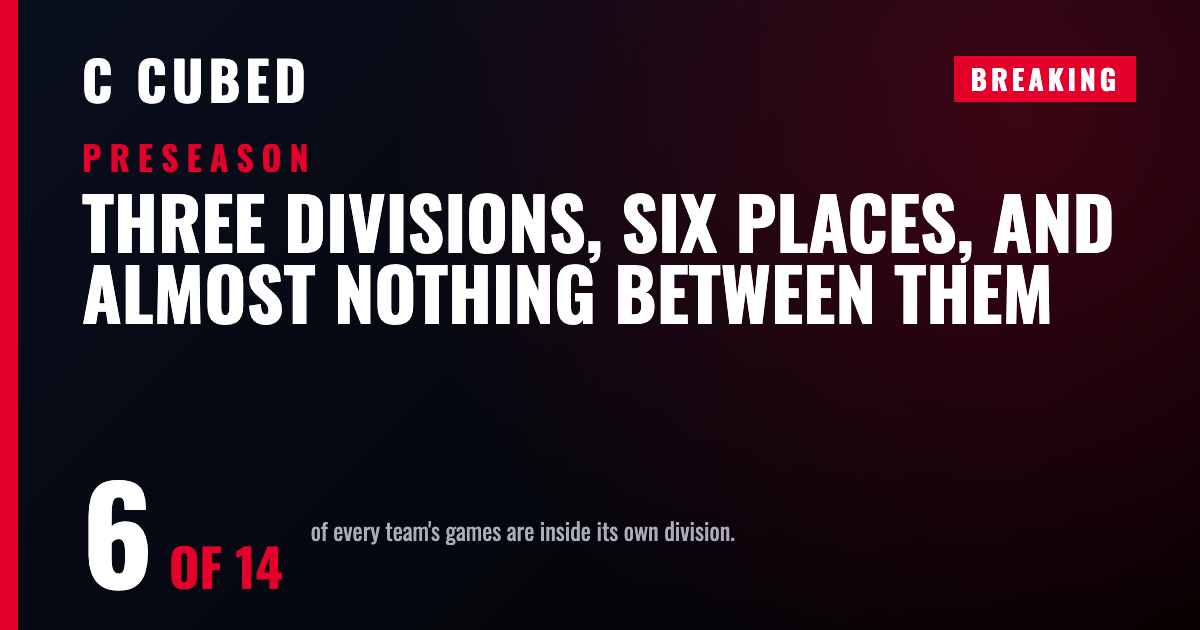
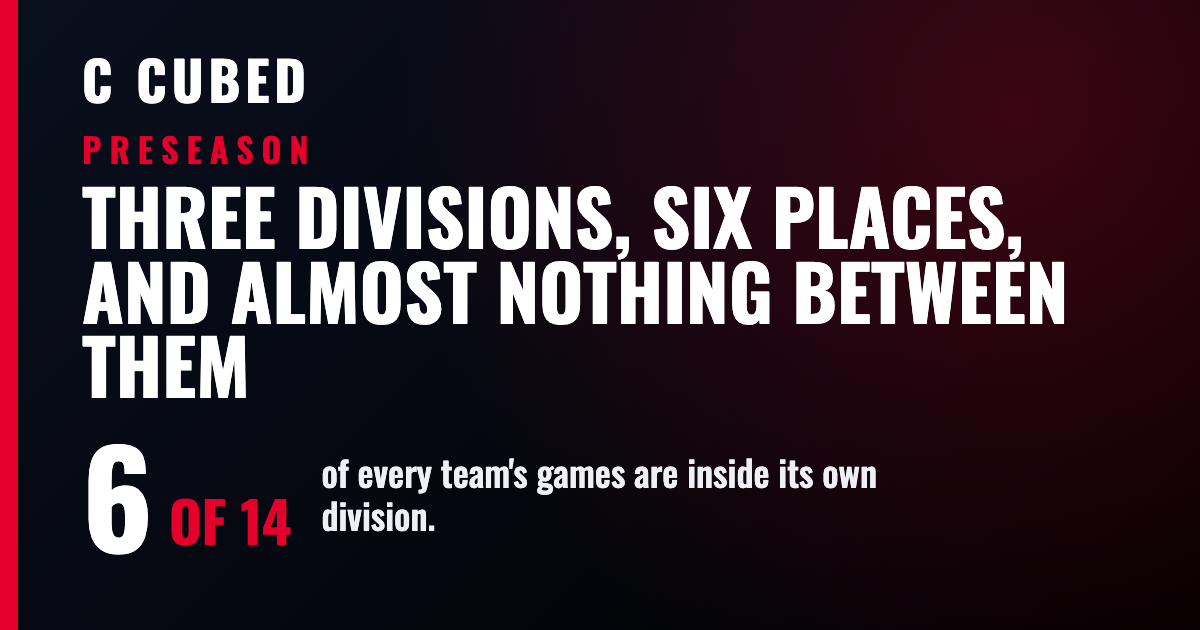
Design review: readable og cards, whole chart labels, a phone crop and full-size view for the board
- og cards: caption beside the stat at 36px and near-white, cut to its first
  clause when long; week, headline and stat grouped so there is no empty band;
  no BREAKING tag on PRESEASON pieces. Regenerated img/og/*.png.
- Article bars: one grid for every row; the label column fits the longest word
  and labels wrap only between words (no mid-word breaks, no ellipsis).
- Article images: optional `narrow` crop served under 560px via <picture>
  (img/playoff-picture-2026-w5-top.webp, the seeds list to the playoff line);
  the image is a real button that opens the full board in a modal <dialog>
  (Escape or Close closes it, focus returns to the button).
- Week 5 article: Montgomery is "now out with a groin injury", with no timing.

Changed region(s): [[0.0617, 0.2111, 0.925, 0.6333], [0.0617, 0.6937, 0.74, 0.9349], [0.7708, 0.0905, 0.9558, 0.181]]

diff --git a/index.html b/index.html
@@ -878,14 +878,35 @@
   .aimg img{display:block;max-width:100%;height:auto;border-radius:12px;border:1px solid var(--grid)}
   .aimg figcaption{font-size:13px;line-height:1.5;color:var(--muted);margin-top:9px}
   .aimg figcaption a{display:inline-block;margin-top:4px;font-weight:750;color:var(--blue)}
+  .aimgz{display:block;position:relative;width:100%;padding:0;border:0;background:none;color:inherit;
+    font:inherit;text-align:left;cursor:zoom-in;border-radius:12px}
+  .aimgz:focus-visible{outline:2px solid var(--blue);outline-offset:3px}
+  .aimgz picture{display:block}
+  .aimgz .zhint{position:absolute;right:10px;bottom:10px;background:rgba(8,10,16,.86);color:#fff;
+    border:1px solid var(--ring);border-radius:999px;padding:6px 11px;font-size:12.5px;font-weight:700}
+  /* The enlarged image: a modal <dialog>, the picture at full size, panned by scrolling. */
+  .imgdlg{width:100vw;max-width:100vw;height:100dvh;max-height:100dvh;margin:0;padding:0;border:0;
+    background:rgba(5,6,10,.97);color:#fff}
+  .imgdlg::backdrop{background:rgba(0,0,0,.7)}
+  .imgdlg-bar{display:flex;align-items:center;justify-content:space-between;gap:12px;padding:8px 12px;
+    border-bottom:1px solid var(--ring);height:60px;box-sizing:border-box}
+  .imgdlg-t{font-size:13.5px;font-weight:700;color:var(--ink-2);overflow:hidden;text-overflow:ellipsis;white-space:nowrap}
+  .imgdlg-x{flex-shrink:0;white-space:nowrap;min-height:44px;min-width:44px;padding:0 16px;border-radius:999px;border:1px solid var(--ring);
+    background:var(--raised);color:#fff;font:inherit;font-size:14px;font-weight:700;cursor:pointer}
+  .imgdlg-x:focus-visible{outline:2px solid var(--blue);outline-offset:2px}
+  .imgdlg-sc{height:calc(100% - 60px);overflow:auto;-webkit-overflow-scrolling:touch}
+  .imgdlg-sc img{display:block;max-width:none;margin:0 auto}
 
   .abars{margin:24px 0;max-width:none}
   .abars .at{font-size:15px;font-weight:800;letter-spacing:-.01em}
   .abars .as{font-size:12.5px;color:var(--muted);margin:3px 0 14px;line-height:1.45}
-  .abody{display:grid;gap:6px}
-  .abar{display:grid;grid-template-columns:minmax(84px,124px) 1fr 46px;align-items:center;gap:10px}
-  .abar .who{font-size:13px;font-weight:650;text-align:right;overflow:hidden;text-overflow:ellipsis;
-    white-space:nowrap;line-height:1.2}
+  /* One grid for every row, so the bars line up; the label column is as wide as the longest
+     word needs (never narrower) and labels wrap only between words. */
+  .abody{display:grid;grid-template-columns:fit-content(40%) 1fr 46px;align-items:center;gap:6px 10px}
+  .abar{display:contents}
+  .abar .who{font-size:13px;font-weight:650;text-align:right;line-height:1.2;min-width:min-content}
+  .abar .who .tlab-n,.abar .who .tlab-m{white-space:normal!important;overflow:visible!important;
+    text-overflow:clip!important;overflow-wrap:normal;word-break:normal;hyphens:none}
   .abar .who i{display:block;font-style:normal;font-size:9.5px;letter-spacing:.12em;
     text-transform:uppercase;color:var(--muted);font-weight:700}
   .abar .track{position:relative;height:20px;background:var(--raised);border-radius:3px}
@@ -921,7 +942,7 @@
     .artl{padding:20px 17px 22px}
     .astat{flex-direction:column;gap:7px}
     .astat .n{font-size:38px}
-    .abar{grid-template-columns:minmax(70px,92px) 1fr 42px;gap:8px}
+    .abody{grid-template-columns:fit-content(46%) 1fr 42px;gap:6px 8px}
   }
 
   /* ============ recap notebook ============ */
@@ -3365,7 +3386,12 @@ function articleBlock(b) {
       const size = b.width && b.height ? ` width="${Number(b.width) || ""}" height="${Number(b.height) || ""}"` : "";
       const cap = [b.caption ? esc(b.caption) : "",
         href && b.link ? `<a href="${esc(href)}">${esc(b.link)} →</a>` : ""].filter(Boolean).join("<br>");
-      return `<figure class="aimg"><img src="${esc(b.src)}" alt="${esc(b.alt || "")}"${size} loading="lazy">
+      // `narrow` is an optional crop of the same picture for phones; the button opens the full image.
+      const narrow = /^img\/[\w.-]+\.(png|webp|jpe?g)$/.test(b.narrow || "") ? b.narrow : "";
+      return `<figure class="aimg"><button type="button" class="aimgz" data-full="${esc(b.src)}"
+          aria-label="Enlarge the image: ${esc(b.caption || b.alt || "full size")}" aria-haspopup="dialog"><picture>${
+          narrow ? `<source media="(max-width:560px)" srcset="${esc(narrow)}">` : ""}<img src="${esc(b.src)}" alt="${esc(b.alt || "")}"${size} loading="lazy"></picture>
+          <span class="zhint" aria-hidden="true">${narrow ? "Tap for the full board" : "Tap to enlarge"}</span></button>
         ${cap ? `<figcaption>${cap}</figcaption>` : ""}</figure>`;
     }
     case "bars": {
@@ -3497,6 +3523,41 @@ async function copyTeaser(box, text) {
     say.textContent = "Couldn't copy automatically. The text below is selected: copy it now.";
   }
 }
+
+/**
+ * An article image's button opens the full picture in a modal <dialog>: the
+ * close button takes focus, Escape or a tap outside the picture closes it, and
+ * focus goes back to the button that opened it.
+ */
+function openImage(btn) {
+  let d = document.getElementById("imgdlg");
+  if (!d) {
+    d = document.createElement("dialog");
+    d.id = "imgdlg"; d.className = "imgdlg";
+    d.innerHTML = `<div class="imgdlg-bar"><span class="imgdlg-t"></span>
+      <button type="button" class="imgdlg-x" aria-label="Close the full-size image">✕ Close</button></div>
+      <div class="imgdlg-sc"><img alt=""></div>`;
+    d.querySelector(".imgdlg-x").onclick = () => d.close();
+    d.addEventListener("click", e => { if (e.target === d || e.target.classList.contains("imgdlg-sc")) d.close(); });
+    d.addEventListener("close", () => { if (d._from && d._from.isConnected) d._from.focus(); });
+    document.body.appendChild(d);
+  }
+  const src = btn.querySelector("img");
+  const title = (btn.closest("figure")?.querySelector("figcaption")?.firstChild?.textContent || "Full-size image").trim();
+  d.setAttribute("aria-label", title);
+  d.querySelector(".imgdlg-t").textContent = title;
+  const big = d.querySelector(".imgdlg-sc img");
+  big.src = btn.dataset.full;
+  big.alt = src ? src.alt : "";
+  d._from = btn;
+  d.showModal();
+  d.querySelector(".imgdlg-sc").scrollTo(0, 0);
+  d.querySelector(".imgdlg-x").focus();
+}
+document.addEventListener("click", e => {
+  const z = e.target.closest && e.target.closest(".aimgz");
+  if (z) openImage(z);
+});
 
 /** Find a published piece by its slug, for a link that names one. */
 async function articleBySlug(slug) {
